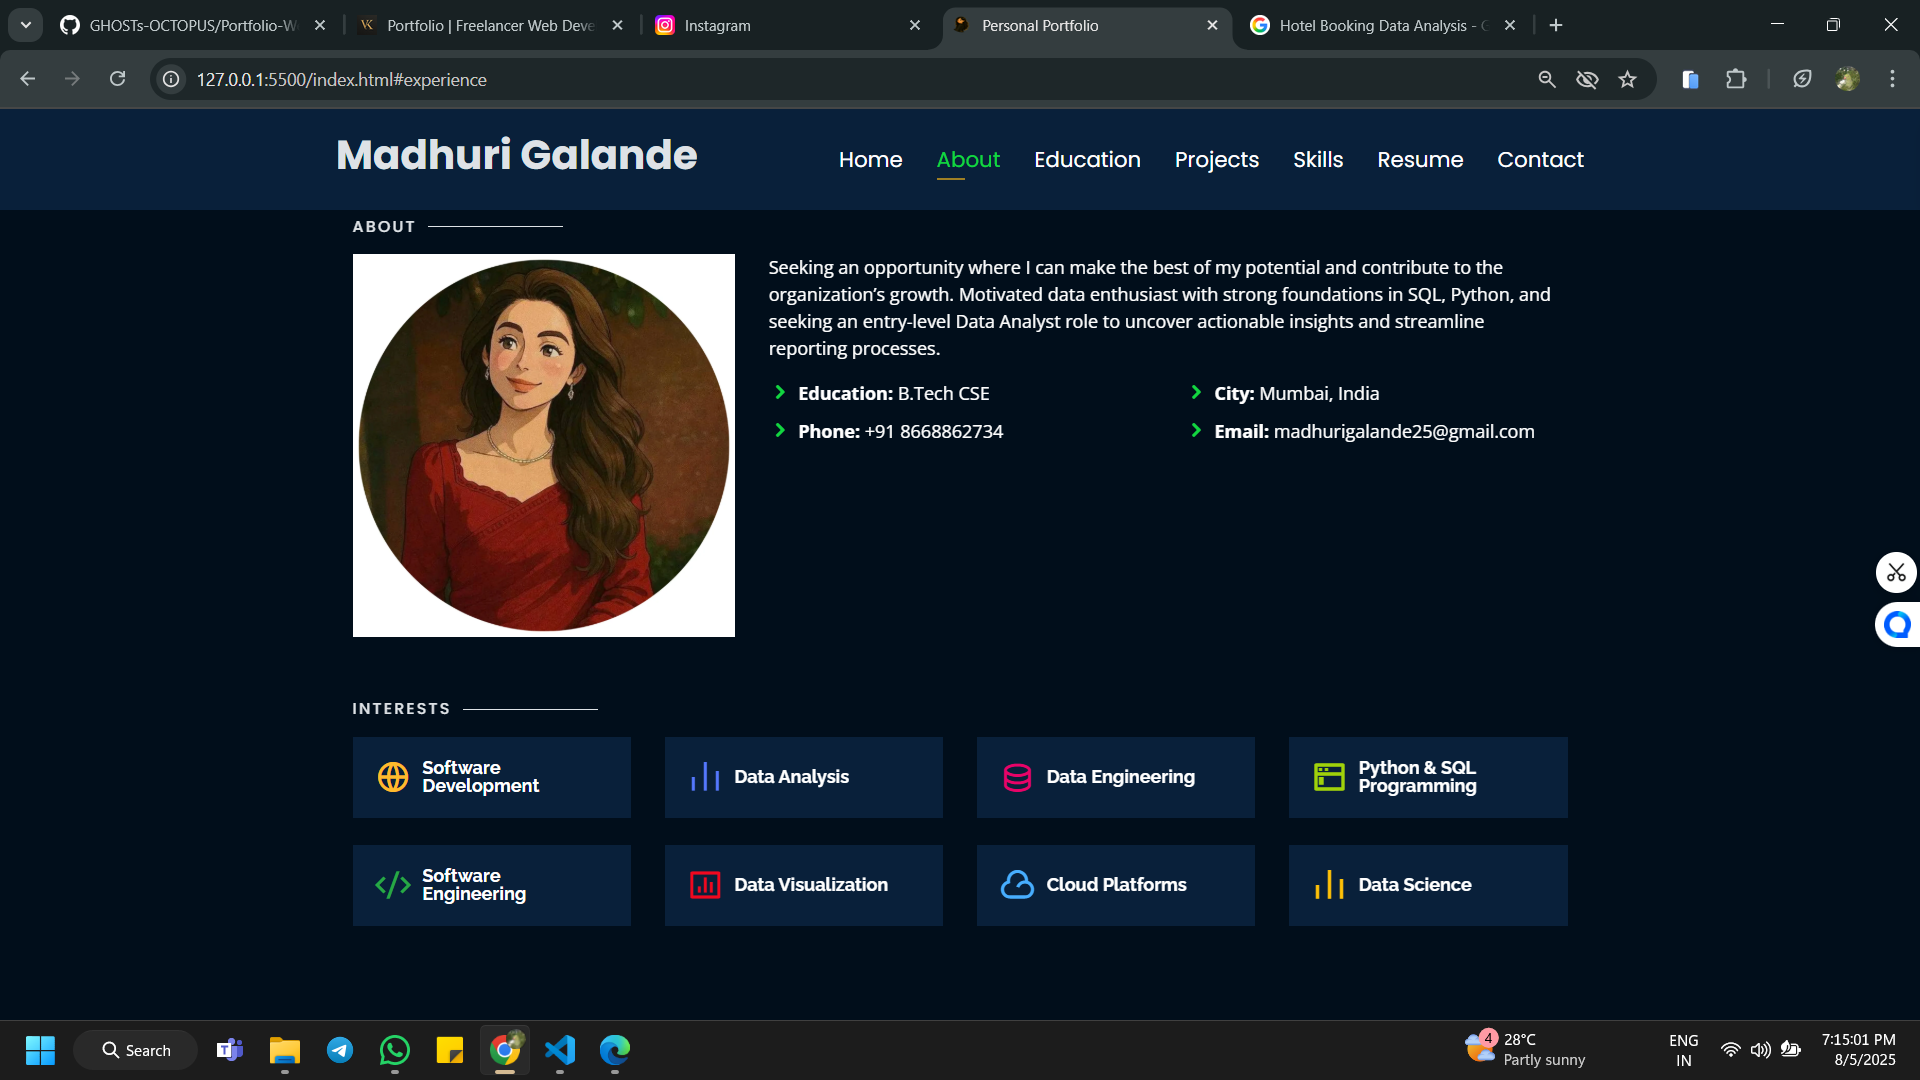
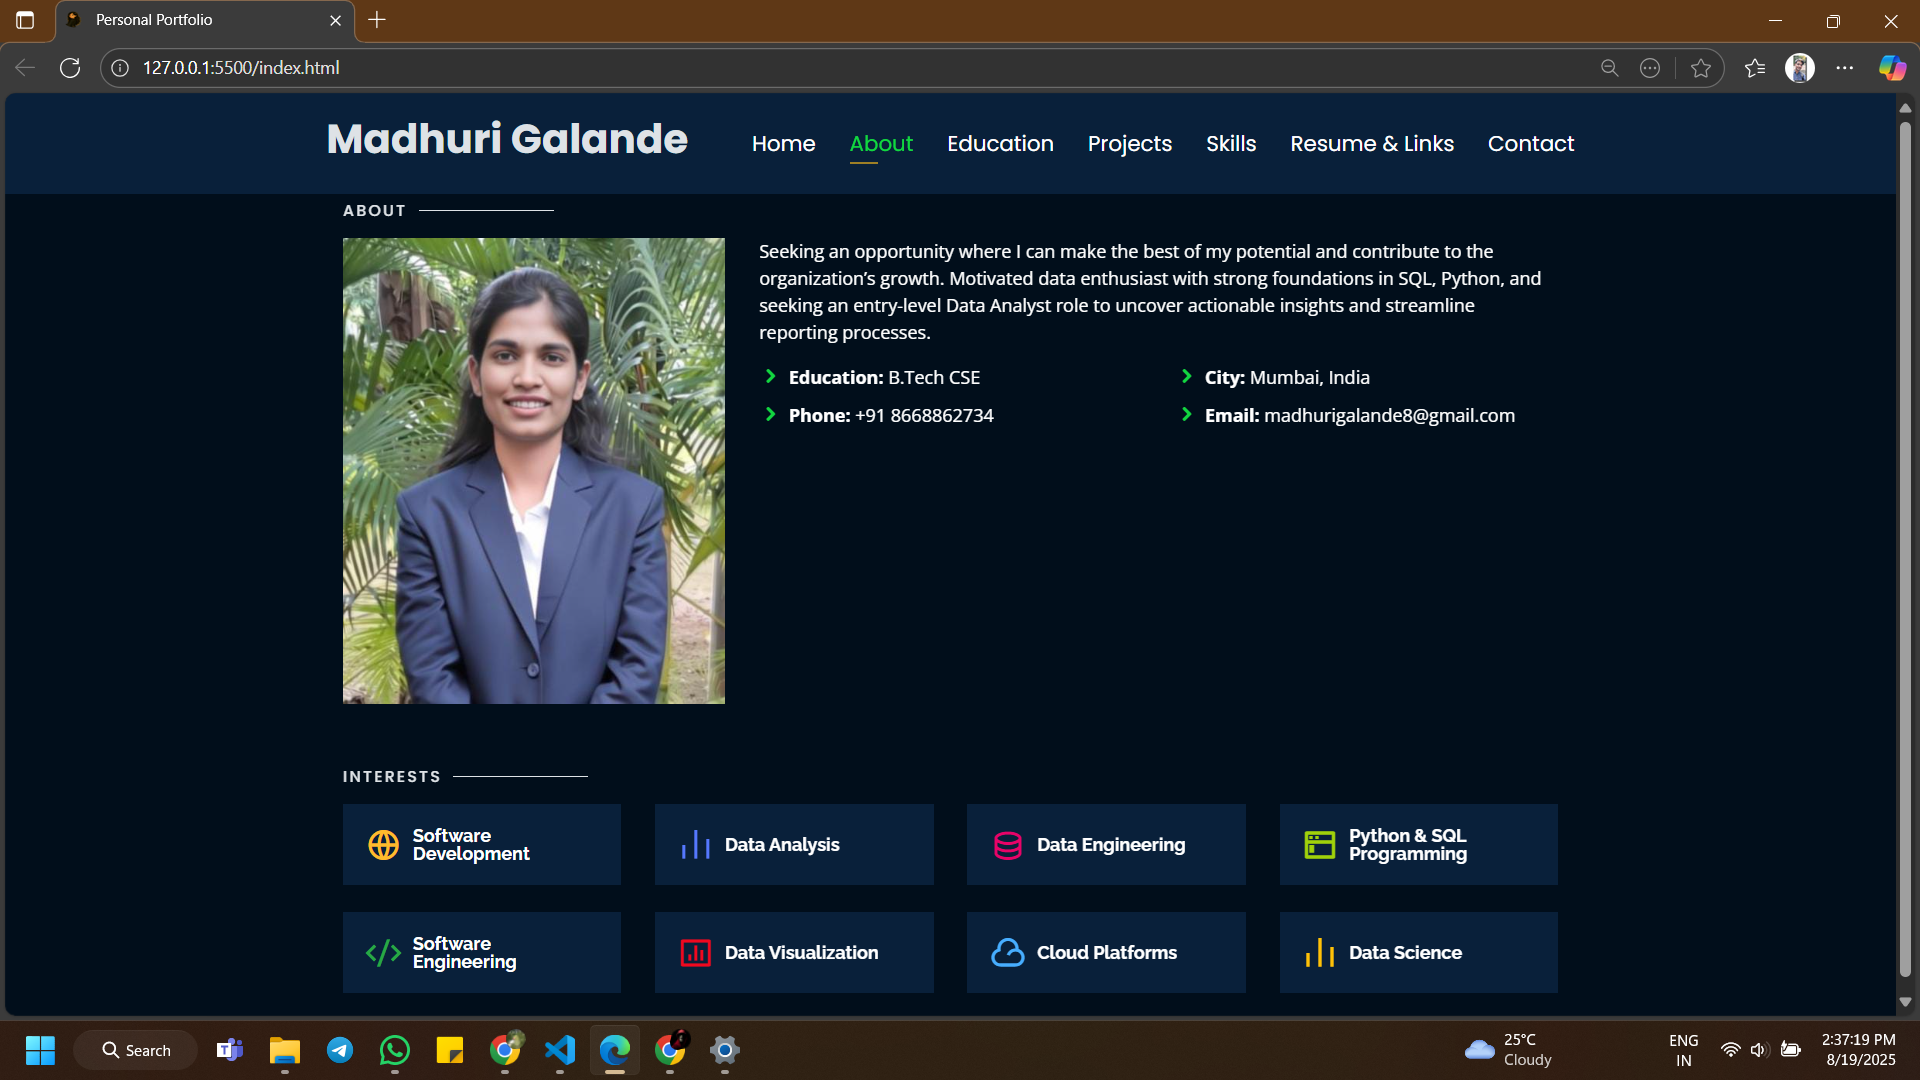
last update

diff --git a/index.html b/index.html
@@ -85,7 +85,7 @@
       <div class="social-links">
           <a href="https://www.linkedin.com/in/madhuri-galande-0554a8218/" target="_blank" class="linkedin"><i class="bx bxl-linkedin"></i></a>
           <a href="https://github.com/Madhurigalande" target="_blank" class="github"><i class="bx bxl-github"></i></a>
-          <a href="mailto:madhurigalande25@gmail.com" target="_blank" class="google"><i class="bx bxl-google"></i></a>
+          <a href="mailto:madhurigalande8@gmail.com" target="_blank" class="google"><i class="bx bxl-google"></i></a>
 
       </div>
 
@@ -280,7 +280,7 @@
             <div class="portfolio-info">
               <h4>Applications of Deep learning and neural network</h4>
               <div class="portfolio-links">
-                <a href="./assets/img/certification/Applications of Deep learning and neural network.pdf" target="_blank" title="Certificate"><i class="bx bx-link"></i></a>
+                <a href="https://drive.google.com/file/d/14Kjfo_S1LH0Ul5i-tEgs7dfQkfWo01Cj/view" target="_blank" title="Certificate"><i class="bx bx-link"></i></a>
               </div>
             </div>
            </div>
@@ -292,7 +292,7 @@
             <div class="portfolio-info">
               <h4>Data structure and object oriented programming</h4>
               <div class="portfolio-links">
-                <a href="./assets/img/certification/Apptech Certificate.pdf" target="_blank" title="Certificate"><i class="bx bx-link"></i></a>
+                <a href="https://drive.google.com/file/d/18g5Ecgf2trdA7SfxDRWKW3dFRrxGiewX/view" target="_blank" title="Certificate"><i class="bx bx-link"></i></a>
               </div>
             </div>
           </div>
@@ -304,7 +304,7 @@
             <div class="portfolio-info">
               <h4>Data analytics and reporting</h4>
               <div class="portfolio-links">
-                <a href="./assets/img/certification/Data Analytics and reporting.pdf" target="_blank" title="Certificate"><i class="bx bx-link"></i></a>
+                <a href="https://drive.google.com/file/d/1rSUqg2k82yli3JuGbnPX5fF-04XHL7T2/view" target="_blank" title="Certificate"><i class="bx bx-link"></i></a>
               </div>
             </div>
           </div>
@@ -316,7 +316,7 @@
             <div class="portfolio-info">
               <h4>java full stack internship</h4>
               <div class="portfolio-links">
-                <a href="./assets/img/certification/Java_fullstack_ internship.pdf" target="_blank" title="Certificate"><i class="bx bx-link"></i></a>
+                <a href="https://drive.google.com/file/d/1TDgZk20XBqBsXwLqokSl-qkva7EfFl4c/view" target="_blank" title="Certificate"><i class="bx bx-link"></i></a>
               </div>
             </div>
           </div>
@@ -328,7 +328,7 @@
             <div class="portfolio-info">
               <h4>remote internship</h4>
               <div class="portfolio-links">
-                <a href="./assets/img/certification/Madhuri_Galande_Certicate of internship.pdf" target="_blank" title="Certificate"><i class="bx bx-link"></i></a>
+                <a href="https://drive.google.com/file/d/1smI1q3rBVQGx13fMkpF3moFiBd0xMEJ7/view" target="_blank" title="Certificate"><i class="bx bx-link"></i></a>
               </div>
             </div>
           </div>
@@ -340,7 +340,7 @@
             <div class="portfolio-info">
               <h4>machine learning for real world application</h4>
               <div class="portfolio-links">
-                <a href="./assets/img/certification/Meachine leaning TCS.pdf" target="_blank" title="Certificate"><i class="bx bx-link"></i></a>
+                <a href="https://drive.google.com/file/d/1L45cJPOuEVVE3uTOPbsDierCP-vcUxN1/view" target="_blank" title="Certificate"><i class="bx bx-link"></i></a>
               </div>
             </div>
           </div>
@@ -352,7 +352,7 @@
             <div class="portfolio-info">
               <h4>cybersecurity fundamentals</h4>
               <div class="portfolio-links">
-                <a href="./assets/img/certification/Zscaler Cybersecurity.pdf" target="_blank" title="Certificate"><i class="bx bx-link"></i></a>
+                <a href="https://drive.google.com/file/d/1k6-F8GmTPgAbanManNzQV_DGyMTYXNvZ/view" target="_blank" title="Certificate"><i class="bx bx-link"></i></a>
               </div>
             </div>
           </div>
@@ -588,8 +588,8 @@
           <p class="description" style="color:#fff;">The link contains downloadable resume</p>
         </div>
         <div class="col-md-3 mt-4 mt-md-0 icon-box" data-aos="fade-up">
-          <a href="https://github.com/LeetCode_Problems" target="_blank"><div class="icon"><i class="icofont-link"></i></div></a>
-          <h4 class="title"><a href="https://github.com/LeetCode_Problems" target="_blank">Certificate</a></h4>
+          <a href="https://github.com/Madhurigalande/Certification" target="_blank"><div class="icon"><i class="icofont-link"></i></div></a>
+          <h4 class="title"><a href="https://github.com/Madhurigalande/Certification" target="_blank">Technical certification</a></h4>
           <p class="description" style="color:#fff;"> Google folder contain all cretificate.</p>
         </div>
       </div>

diff --git a/Readme.md b/Readme.md
@@ -1,17 +1,17 @@
 # Portfolio Website 🔥
  || For Client of Big-Data-Analysit Profiles.  ||
-> https://github.com/GHOSTs-OCTOPUS/Portfolio-Big-data-analyst
+> https://github.com/GHOSTs-OCTOPUS/madhurianalytics
 
 :star: Star me on GitHub — it helps!
 
 [![Maintenance](https://img.shields.io/badge/maintained-yes-green.svg)](https://github.com/GHOSTs-OCTOPUS)
-[![Website shields.io](https://img.shields.io/badge/website-up-yellow)](https://ghosts-octopus.github.io/Big-Data-Analysit/)
+[![Website shields.io](https://img.shields.io/badge/website-up-yellow)](https://github.com/GHOSTs-OCTOPUS/madhurianalytics)
 [![Ask Me Anything !](https://img.shields.io/badge/ask%20me-linkedin-1abc9c.svg)]()
 [![License](http://img.shields.io/:license-mit-blue.svg?style=flat-square)](http://badges.mit-license.org)
 
 ### Website Preview
 #### Home Page
-<img src="website_images/" width="900">
+<img src="website_images/HomePage.png" width="900">
 
 
 #### About Page
@@ -86,4 +86,4 @@
 
 # STATUS :- INCOMPLETE..<BR>
 Credit: [kole vikas](https://github.com/GHOSTs-OCTOPUS)<BR>
-Last Edited on: 05/08/2025
+Last Edited on: 19/08/2025
